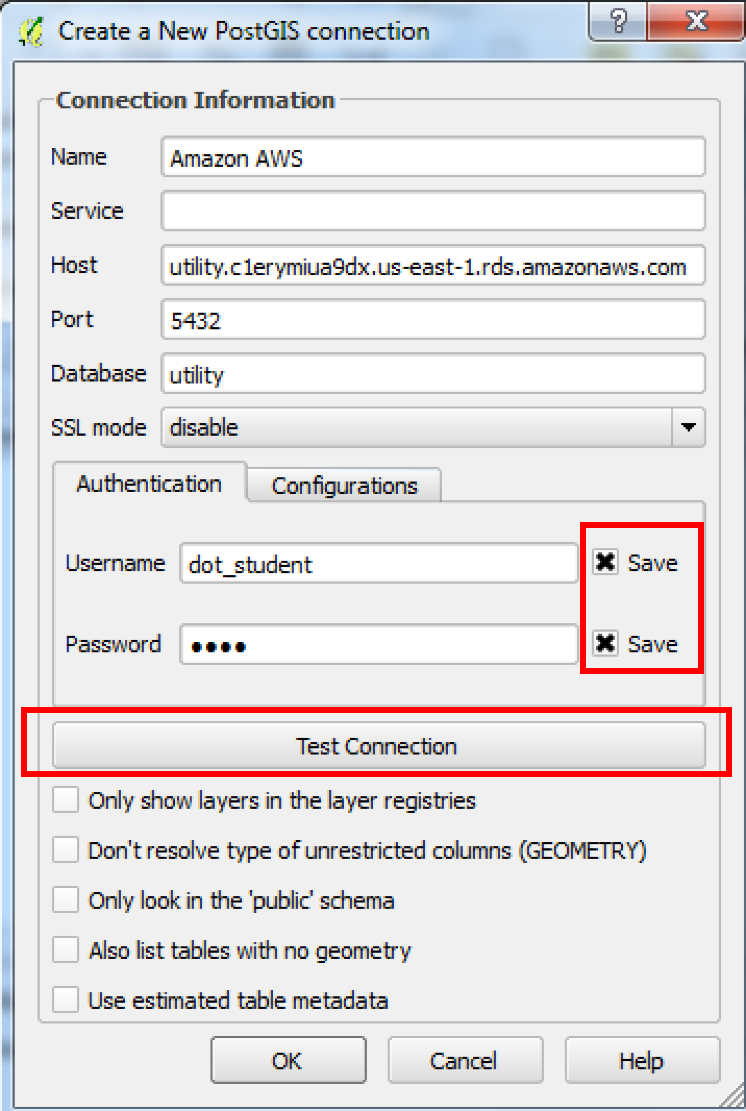
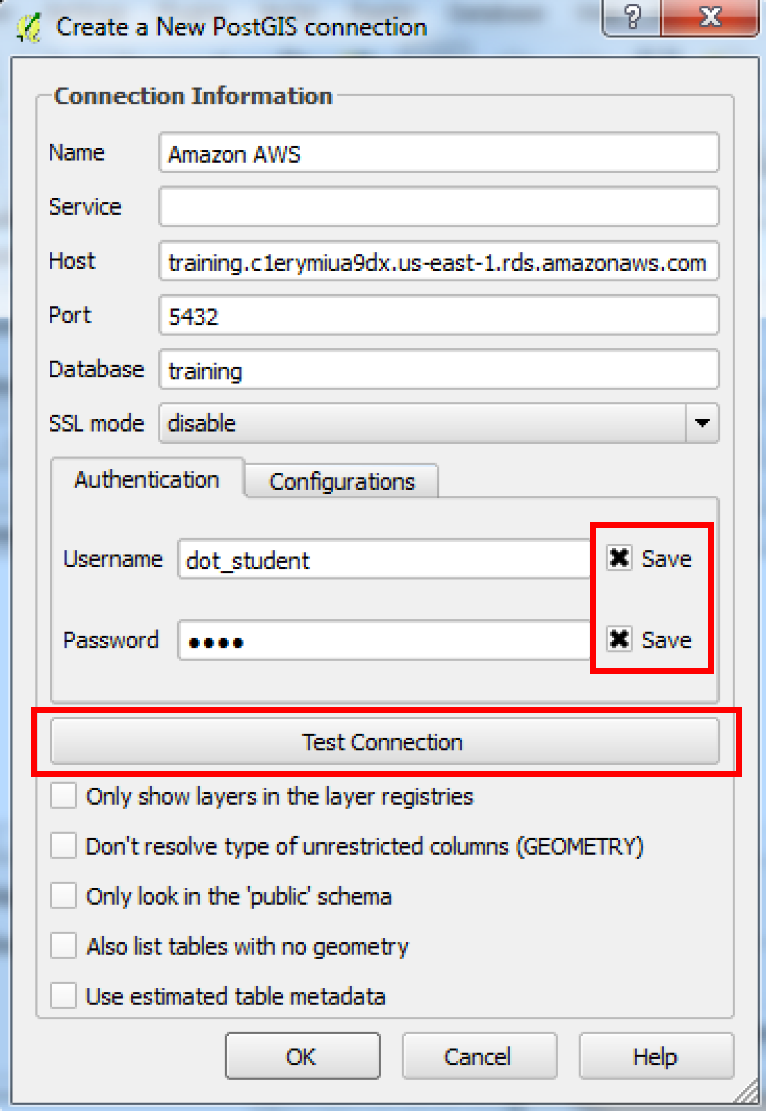
change over to training database

Changed region(s): [[0.0, 0.0, 1.0, 1.0]]

diff --git a/20160510_Intermediate_GIS/index.html b/20160510_Intermediate_GIS/index.html
@@ -535,9 +535,9 @@ class:center,middle
 #Let's connect to a spatial database
 ![img-right-40](images/add_pg_layer3_box.png)
 + Name: (Whatever you'd like)
-+ Host: `utility.c1erymiua9dx.us-east-1.rds.amazonaws.com`
++ Host: `training.c1erymiua9dx.us-east-1.rds.amazonaws.com`
 + Port: `5432`
-+ Database: `utility`
++ Database: `training`
 + Username: `dot_student`
 + Password: `qgis`
 --
@@ -547,8 +547,14 @@ class:center,middle
 ---
 
 #Let's connect to a spatial database
-![img-left-50](images/add_pg_layer5_box.png)
-![img-right-50](images/add_pg_layer6_box.png)
+![img-left-45](images/add_pg_layer5_box.png)
+![img-right-45](images/add_pg_layer6_box.png)
+####&nbsp;
+####&nbsp;
+####&nbsp;
+####&nbsp;
+####&nbsp;
+####&nbsp;
 ####&nbsp;
 ###Now it's just like any other data source we've been using
 
@@ -704,6 +710,17 @@ class:center,middle
 #Spatial Join
 ![img-left-50](images/sjoin3.png)
 ![img-right-45](images/sjoin4_box.png)
+
+---
+
+#Spatial Join
+![img-center-50](images/sjoin5.png)
+
+![img-center-80](images/sjoin6_box.png)
+
+---
+
+#
 
 ---
 class:center,middle
